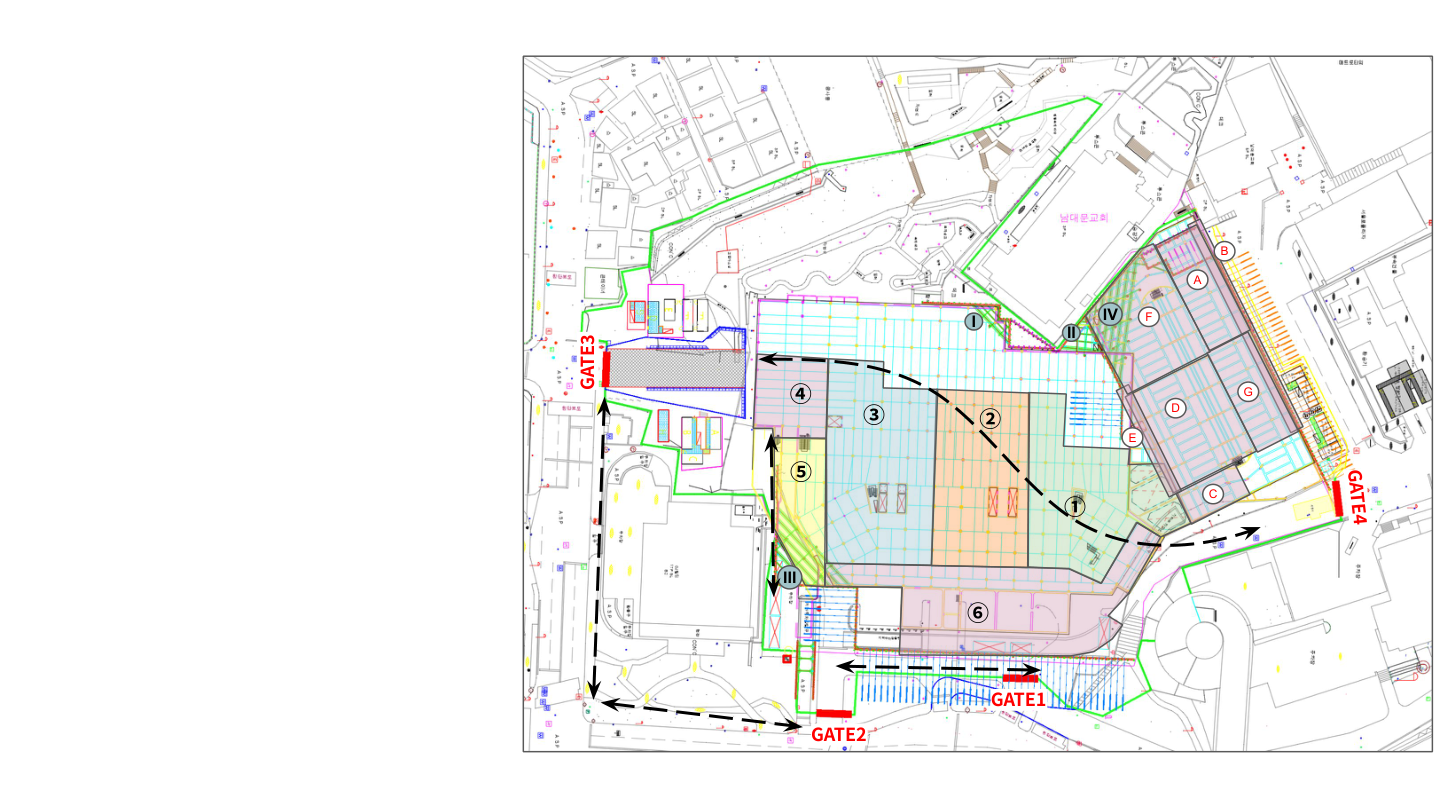
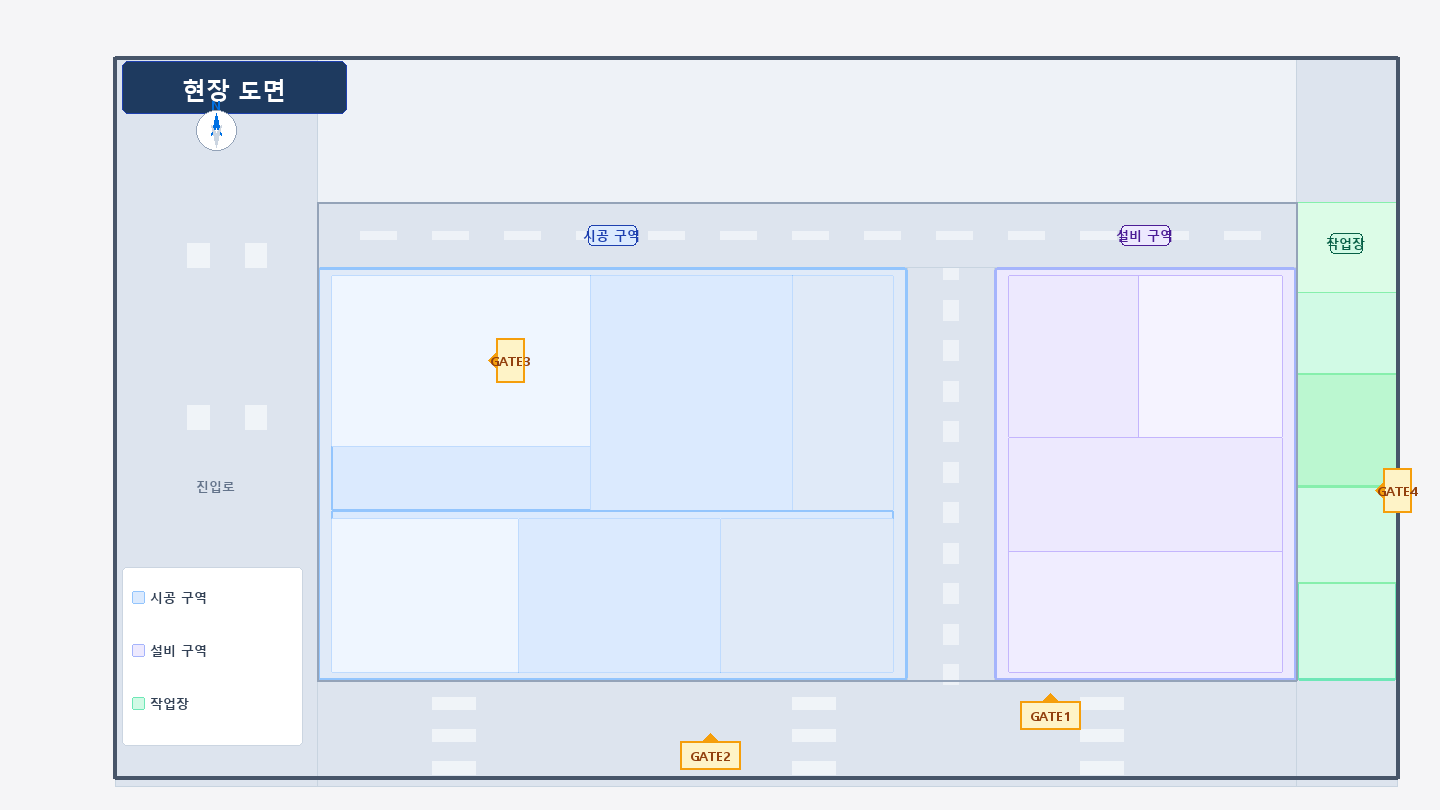
관리자 도면 탭에 마커 드래그 위치 편집 기능 추가
- 편집 모드 토글 버튼으로 드래그 모드 진입/해제
- 마우스/터치로 위치 마커를 도면 위에서 자유롭게 이동
- 커스텀 좌표는 localStorage에 자동 저장, 초기화 버튼으로 리셋
- 업체 모드 도면도 getCoord()로 통일해 편집된 좌표 공유
- 새 site_map.png 포함 (PIL 생성, 한글 폰트 적용)

diff --git a/static/workers.html b/static/workers.html
@@ -424,31 +424,76 @@
 
     <!-- 도면 탭 -->
     <div x-show="adminTab==='map'">
-      <div class="relative select-none" style="border-radius:12px;overflow:hidden;background:#f0f0f0">
+      <!-- 편집 모드 토글 -->
+      <div class="flex items-center justify-between mb-2">
+        <div class="flex flex-wrap gap-1.5">
+          <span class="text-xs flex items-center gap-1"><span class="inline-block w-3 h-3 rounded-full bg-red-600"></span>출근 있음</span>
+          <span class="text-xs flex items-center gap-1"><span class="inline-block w-3 h-3 rounded-full bg-gray-500"></span>출근 없음</span>
+          <span class="text-xs flex items-center gap-1"><span class="inline-block w-3 h-3 rounded-full bg-blue-600"></span>선택됨</span>
+          <span class="text-xs text-gray-400" x-text="'총 '+mapAttendance.length+'명 출근'"></span>
+        </div>
+        <div class="flex items-center gap-2">
+          <button x-show="locEditMode" @click="resetLocCoords()"
+                  class="text-xs px-2 py-1 rounded-lg font-bold"
+                  style="background:#fff3cd;color:#856404;border:1px solid #ffc107">초기화</button>
+          <button @click="locEditMode=!locEditMode; dragLoc=null"
+                  class="text-xs px-3 py-1.5 rounded-lg font-bold transition-all"
+                  :style="locEditMode ? 'background:#f59e0b;color:white' : 'background:#f2f2f7;color:#1c1c1e'">
+            <span x-text="locEditMode ? '✓ 편집 완료' : '📌 위치 편집'"></span>
+          </button>
+        </div>
+      </div>
+      <div x-show="locEditMode" class="mb-2 px-3 py-2 rounded-lg text-xs font-bold"
+           style="background:#fff8e1;color:#92400e;border:1px solid #fde68a">
+        마커를 드래그해서 위치를 조정하세요. 변경사항은 자동 저장됩니다.
+      </div>
+      <!-- 지도 + SVG 마커 -->
+      <div class="relative select-none" x-ref="adminMapEl"
+           style="border-radius:12px;overflow:hidden;background:#f0f0f0;touch-action:none"
+           :style="locEditMode ? 'cursor:crosshair' : ''"
+           @mousemove.prevent="onMapMouseMove($event)"
+           @mouseup="endLocDrag()"
+           @mouseleave="endLocDrag()"
+           @touchmove.prevent="onMapTouchMove($event)"
+           @touchend="endLocDrag()"
+           @touchcancel="endLocDrag()">
         <img src="/site_map.png" style="width:100%;display:block" draggable="false">
         <svg style="position:absolute;top:0;left:0;width:100%;height:100%;pointer-events:none">
           <template x-for="loc in LOCATION_PRESETS" :key="loc">
-            <g style="pointer-events:all;cursor:pointer" @click="mapSelectedLoc = (mapSelectedLoc===loc ? null : loc)">
+            <g :style="locEditMode ? 'pointer-events:all;cursor:grab' : 'pointer-events:all;cursor:pointer'"
+               @mousedown="locEditMode ? startLocDrag($event, loc) : null"
+               @touchstart.prevent="locEditMode ? startLocDragTouch($event, loc) : null"
+               @click="!locEditMode && (mapSelectedLoc = (mapSelectedLoc===loc ? null : loc))">
+              <!-- 편집 모드 외곽 링 -->
+              <circle x-show="locEditMode"
+                :cx="getCoord(loc).x+'%'"
+                :cy="getCoord(loc).y+'%'"
+                r="22"
+                fill="none"
+                :stroke="dragLoc===loc ? '#f59e0b' : 'rgba(245,158,11,0.5)'"
+                stroke-width="2"
+                stroke-dasharray="4 3"
+              ></circle>
               <circle
-                :cx="(LOCATION_COORDS[loc]?.x||50)+'%'"
-                :cy="(LOCATION_COORDS[loc]?.y||50)+'%'"
+                :cx="getCoord(loc).x+'%'"
+                :cy="getCoord(loc).y+'%'"
                 r="18"
-                :fill="mapSelectedLoc===loc ? '#2563eb' : (mapWorkersAt(loc).length>0 ? '#dc2626' : '#6b7280')"
+                :fill="dragLoc===loc ? '#f59e0b' : (mapSelectedLoc===loc ? '#2563eb' : (mapWorkersAt(loc).length>0 ? '#dc2626' : '#6b7280'))"
                 fill-opacity="0.82"
                 stroke="white" stroke-width="2.5"
               ></circle>
               <text
-                :x="(LOCATION_COORDS[loc]?.x||50)+'%'"
-                :y="(LOCATION_COORDS[loc]?.y||50)+'%'"
+                :x="getCoord(loc).x+'%'"
+                :y="getCoord(loc).y+'%'"
                 text-anchor="middle" dominant-baseline="central"
                 fill="white" font-size="11" font-weight="bold"
                 style="pointer-events:none"
                 x-text="loc.length<=2 ? loc : loc.replace('GATE','G')"
               ></text>
-              <template x-if="mapWorkersAt(loc).length>0">
+              <template x-if="!locEditMode && mapWorkersAt(loc).length>0">
                 <text
-                  :x="((LOCATION_COORDS[loc]?.x||50)+3)+'%'"
-                  :y="((LOCATION_COORDS[loc]?.y||50)-3)+'%'"
+                  :x="(getCoord(loc).x+3)+'%'"
+                  :y="(getCoord(loc).y-3)+'%'"
                   fill="white" font-size="9" font-weight="900"
                   style="pointer-events:none"
                   x-text="mapWorkersAt(loc).length"
@@ -459,7 +504,7 @@
         </svg>
       </div>
       <!-- 위치 클릭 결과 -->
-      <template x-if="mapSelectedLoc">
+      <template x-if="mapSelectedLoc && !locEditMode">
         <div class="card mt-3">
           <div class="flex items-center justify-between mb-2">
             <span class="font-extrabold text-gray-800" x-text="'📍 '+mapSelectedLoc+' 위치 근로자'"></span>
@@ -484,12 +529,6 @@
           </div>
         </div>
       </template>
-      <div class="flex flex-wrap gap-1.5 mt-2">
-        <span class="text-xs flex items-center gap-1"><span class="inline-block w-3 h-3 rounded-full bg-red-600"></span>출근 있음</span>
-        <span class="text-xs flex items-center gap-1"><span class="inline-block w-3 h-3 rounded-full bg-gray-500"></span>출근 없음</span>
-        <span class="text-xs flex items-center gap-1"><span class="inline-block w-3 h-3 rounded-full bg-blue-600"></span>선택됨</span>
-        <span class="text-xs text-gray-400 ml-auto" x-text="'총 '+mapAttendance.length+'명 출근'"></span>
-      </div>
     </div>
 
     <!-- 위치 탭 -->
@@ -580,15 +619,15 @@
           <template x-for="loc in LOCATION_PRESETS" :key="loc">
             <g style="pointer-events:all;cursor:pointer" @click="selectedLocTab=(selectedLocTab===loc?null:loc)">
               <circle
-                :cx="(LOCATION_COORDS[loc]?.x||50)+'%'"
-                :cy="(LOCATION_COORDS[loc]?.y||50)+'%'"
+                :cx="getCoord(loc).x+'%'"
+                :cy="getCoord(loc).y+'%'"
                 r="18"
                 :fill="selectedLocTab===loc ? '#2563eb' : (countAtLoc(loc)>0 ? '#16a34a' : '#6b7280')"
                 fill-opacity="0.85" stroke="white" stroke-width="2.5"
               ></circle>
               <text
-                :x="(LOCATION_COORDS[loc]?.x||50)+'%'"
-                :y="(LOCATION_COORDS[loc]?.y||50)+'%'"
+                :x="getCoord(loc).x+'%'"
+                :y="getCoord(loc).y+'%'"
                 text-anchor="middle" dominant-baseline="central"
                 fill="white" font-size="11" font-weight="bold"
                 style="pointer-events:none"
@@ -596,8 +635,8 @@
               ></text>
               <template x-if="countAtLoc(loc)>0">
                 <text
-                  :x="((LOCATION_COORDS[loc]?.x||50)+3)+'%'"
-                  :y="((LOCATION_COORDS[loc]?.y||50)-3)+'%'"
+                  :x="(getCoord(loc).x+3)+'%'"
+                  :y="(getCoord(loc).y-3)+'%'"
                   fill="white" font-size="9" font-weight="900"
                   style="pointer-events:none"
                   x-text="countAtLoc(loc)"
@@ -1698,6 +1737,9 @@ function app() {
     mapShow: false,
     mapSelectedLoc: null,
     mapAttendance: [],
+    locEditMode: false,
+    dragLoc: null,
+    customCoords: {},
 
     // ── 출근 ──
     attDate: new Date().toISOString().slice(0,10),
@@ -1743,6 +1785,9 @@ function app() {
 
       // ── 세션 자동 복원 (새로고침 유지) ──
       if (this.siteCode) {
+        const savedCoords = localStorage.getItem('vw_loc_coords_'+this.siteCode);
+        if (savedCoords) { try { this.customCoords = JSON.parse(savedCoords); } catch {} }
+
         const savedAdmin = JSON.parse(localStorage.getItem('vw_admin_auth')||'null');
         if (savedAdmin && savedAdmin.site_code === this.siteCode && Date.now() - savedAdmin.ts < 3600000) {
           this.authed = true; this.role = 'admin';
@@ -2027,6 +2072,44 @@ function app() {
         return Object.values(this.workerLocations).filter(locs => locs.includes('전구역')).length;
       }
       return Object.values(this.workerLocations).filter(locs => locs.includes(loc)).length;
+    },
+
+    getCoord(loc) {
+      return this.customCoords[loc] || this.LOCATION_COORDS[loc] || {x:50, y:50};
+    },
+    startLocDrag(e, loc) {
+      e.preventDefault();
+      this.dragLoc = loc;
+    },
+    startLocDragTouch(e, loc) {
+      e.preventDefault();
+      this.dragLoc = loc;
+    },
+    onMapMouseMove(e) {
+      if (!this.locEditMode || !this.dragLoc) return;
+      const rect = this.$refs.adminMapEl.getBoundingClientRect();
+      const x = Math.max(1, Math.min(99, parseFloat(((e.clientX-rect.left)/rect.width*100).toFixed(1))));
+      const y = Math.max(1, Math.min(99, parseFloat(((e.clientY-rect.top)/rect.height*100).toFixed(1))));
+      this.customCoords = {...this.customCoords, [this.dragLoc]: {x, y}};
+    },
+    onMapTouchMove(e) {
+      if (!this.locEditMode || !this.dragLoc || !e.touches[0]) return;
+      e.preventDefault();
+      const rect = this.$refs.adminMapEl.getBoundingClientRect();
+      const t = e.touches[0];
+      const x = Math.max(1, Math.min(99, parseFloat(((t.clientX-rect.left)/rect.width*100).toFixed(1))));
+      const y = Math.max(1, Math.min(99, parseFloat(((t.clientY-rect.top)/rect.height*100).toFixed(1))));
+      this.customCoords = {...this.customCoords, [this.dragLoc]: {x, y}};
+    },
+    endLocDrag() {
+      if (!this.dragLoc) return;
+      this.dragLoc = null;
+      localStorage.setItem('vw_loc_coords_'+this.siteCode, JSON.stringify(this.customCoords));
+    },
+    resetLocCoords() {
+      this.customCoords = {};
+      localStorage.removeItem('vw_loc_coords_'+this.siteCode);
+      this.showToast('기본 위치로 초기화');
     },
 
     get totalAttended() {